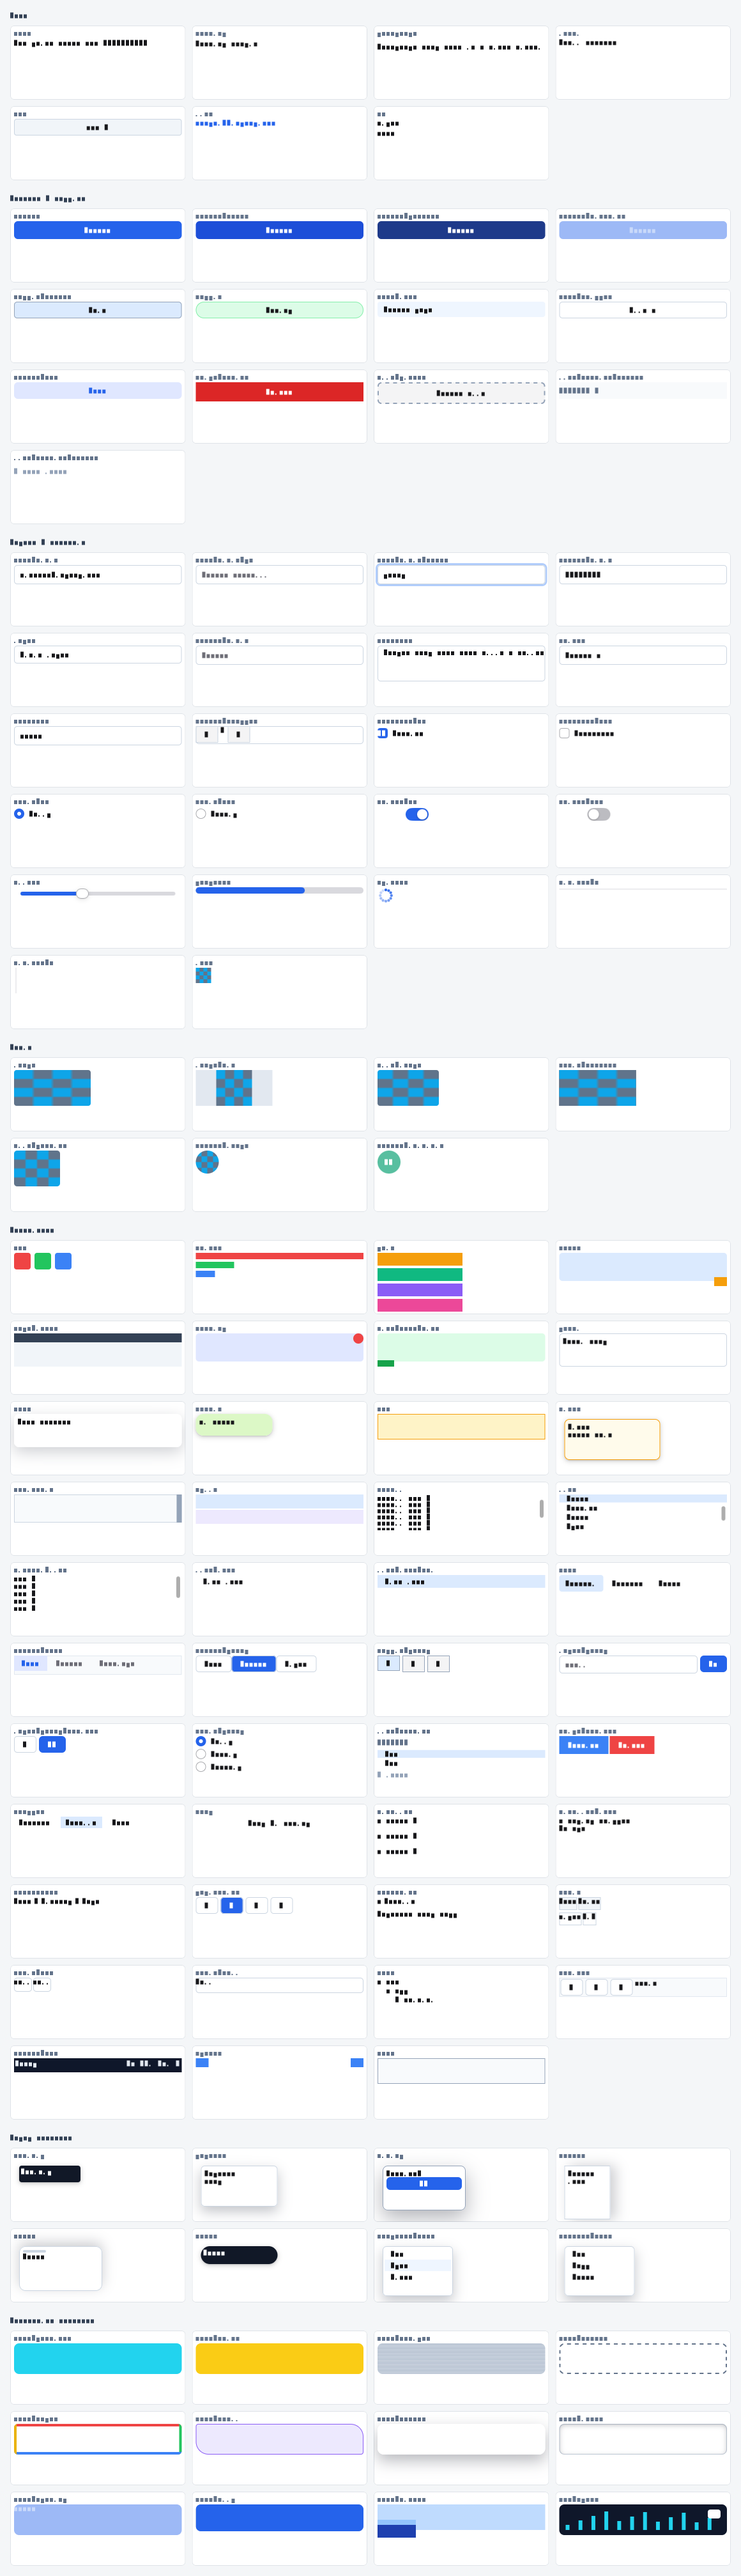
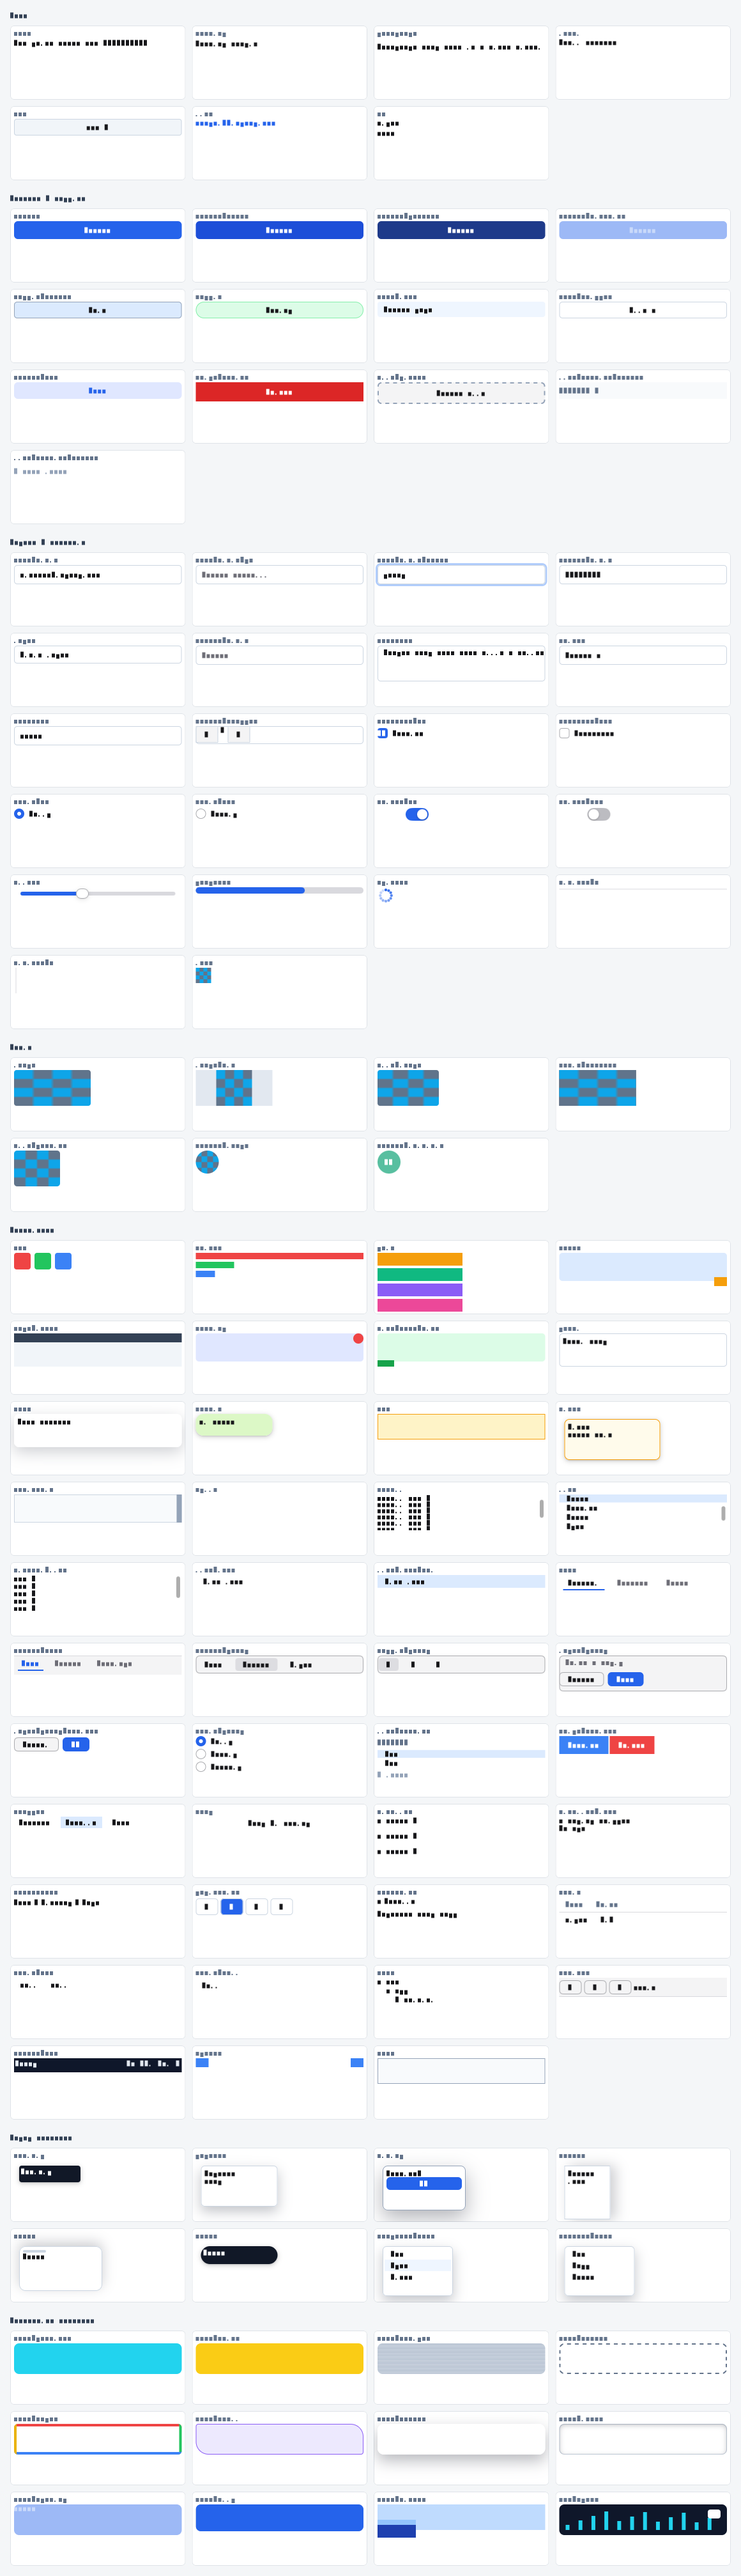
native: group-direction layouts, segment chrome, table hairlines
- lui_layout: button-group, toggle-group, input-group-actions,
  table-row, tabs, bottom-tabs, toolbar, swipe-actions, stepper,
  breadcrumb, pagination and split lay children out horizontally per
  the component contracts (they were columns, so direct children
  stacked); orientation prop wins. Contract default gaps: groups 4,
  input-group-actions 6, breadcrumb 4, pagination 2; grouped controls
  center children on the cross axis.
- child_role_of: unstyled direct children take their group's
  contextual presentation — buttons/toggle-buttons in button and
  toggle groups render as segments of one shared track (selected gets
  an inset pressed pill, hover a subtle wash), buttons in tabs render
  as tab triggers (accent underline when selected), field kinds inside
  input-group melt their own chrome into the composer track.
- new default chrome: button-group/toggle-group/input-group draw the
  shared surface+border track; bottom-tabs draws surface + top
  hairline; toolbar draws surface + bottom hairline; table-row draws
  hover/selection faces plus a bottom divider on every row but the
  last.
- tab triggers and the tab kind mark choice with dark 600 ink (the
  bare kind keeps accent ink for the mobile tab bar); table-cell
  paints its text prop with the shared 10x6 cell inset.
- gallery cells for these kinds now exercise the defaults instead of
  hand-styling the joined look.

diff --git a/platform/native/gallery_out/manifest.md b/platform/native/gallery_out/manifest.md
@@ -73,10 +73,10 @@ One cell per exercised state; every standard kind appears at least once. `ops` =
 | cells/c67_list_item.png | list-item | 0 | unselected row |
 | cells/c68_list_item_sel.png | list-item | 0 | selected row |
 | cells/c69_tabs.png | tabs | 0 | tab strip |
-| cells/c70_bottom_tabs.png | bottom-tabs | 0 | tab bar |
-| cells/c71_button_group.png | button-group | 0 | segmented cluster |
-| cells/c72_toggle_group.png | toggle-group | 0 | format toggles |
-| cells/c73_input_group.png | input-group | 0 | field + action |
+| cells/c70_bottom_tabs.png | bottom-tabs | 2 | tab bar |
+| cells/c71_button_group.png | button-group | 2 | segmented cluster |
+| cells/c72_toggle_group.png | toggle-group | 2 | format toggles |
+| cells/c73_input_group.png | input-group | 2 | composer |
 | cells/c74_input_group_actions.png | input-group-actions | 0 | action pair |
 | cells/c75_radio_group.png | radio-group | 0 | option set |
 | cells/c76_list_section.png | list-section | 0 | header rows footer |
@@ -92,7 +92,7 @@ One cell per exercised state; every standard kind appears at least once. `ops` =
 | cells/c86_table_row.png | table-row | 0 | one row |
 | cells/c87_table_cell.png | table-cell | 0 | one cell |
 | cells/c88_tree.png | tree | 0 | indented rows |
-| cells/c89_toolbar.png | toolbar | 0 | tool row |
+| cells/c89_toolbar.png | toolbar | 2 | tool row |
 | cells/c90_status_bar.png | status-bar | 0 | status row |
 | cells/c91_spacer.png | spacer | 0 | expanding gap |
 | cells/c92_root.png | root | 0 | frame root box |
@@ -117,8 +117,8 @@ One cell per exercised state; every standard kind appears at least once. `ops` =
 | cells/c111_deco_zindex.png | box | 0 | z-index order |
 | cells/c112_ext_spark.png | extension:lui_gallery.spark | -1 | custom renderer + hole |
 
-## Kinds emitting no ops unadorned (52)
+## Kinds emitting no ops unadorned (47)
 
-`root`, `row`, `column`, `grid`, `stack`, `edge-inset`, `overlay`, `view-that-fits`, `panel`, `box`, `text`, `heading`, `paragraph`, `label`, `radio-group`, `tabs`, `bottom-tabs`, `bottom-tab`, `button-group`, `toggle-group`, `spacer`, `icon`, `menu-item`, `list-item`, `avatar`, `image`, `media-surface`, `stepper`, `step`, `timeline`, `timeline-item`, `input-group`, `input-group-actions`, `breadcrumb`, `pagination`, `accordion`, `table`, `table-row`, `table-cell`, `tree`, `resizable`, `split`, `toolbar`, `status-bar`, `list-section`, `list-section-header`, `list-section-footer`, `swipe-actions`, `link`, `file-image`, `file-preview`, `br`
+`root`, `row`, `column`, `grid`, `stack`, `edge-inset`, `overlay`, `view-that-fits`, `panel`, `box`, `text`, `heading`, `paragraph`, `label`, `radio-group`, `tabs`, `bottom-tab`, `spacer`, `icon`, `menu-item`, `list-item`, `avatar`, `image`, `media-surface`, `stepper`, `step`, `timeline`, `timeline-item`, `input-group-actions`, `breadcrumb`, `pagination`, `accordion`, `table`, `table-row`, `table-cell`, `tree`, `resizable`, `split`, `status-bar`, `list-section`, `list-section-header`, `list-section-footer`, `swipe-actions`, `link`, `file-image`, `file-preview`, `br`
 
 Kinds absent from the catalog: none — every `all_node_kinds` entry is exercised by at least one cell.
